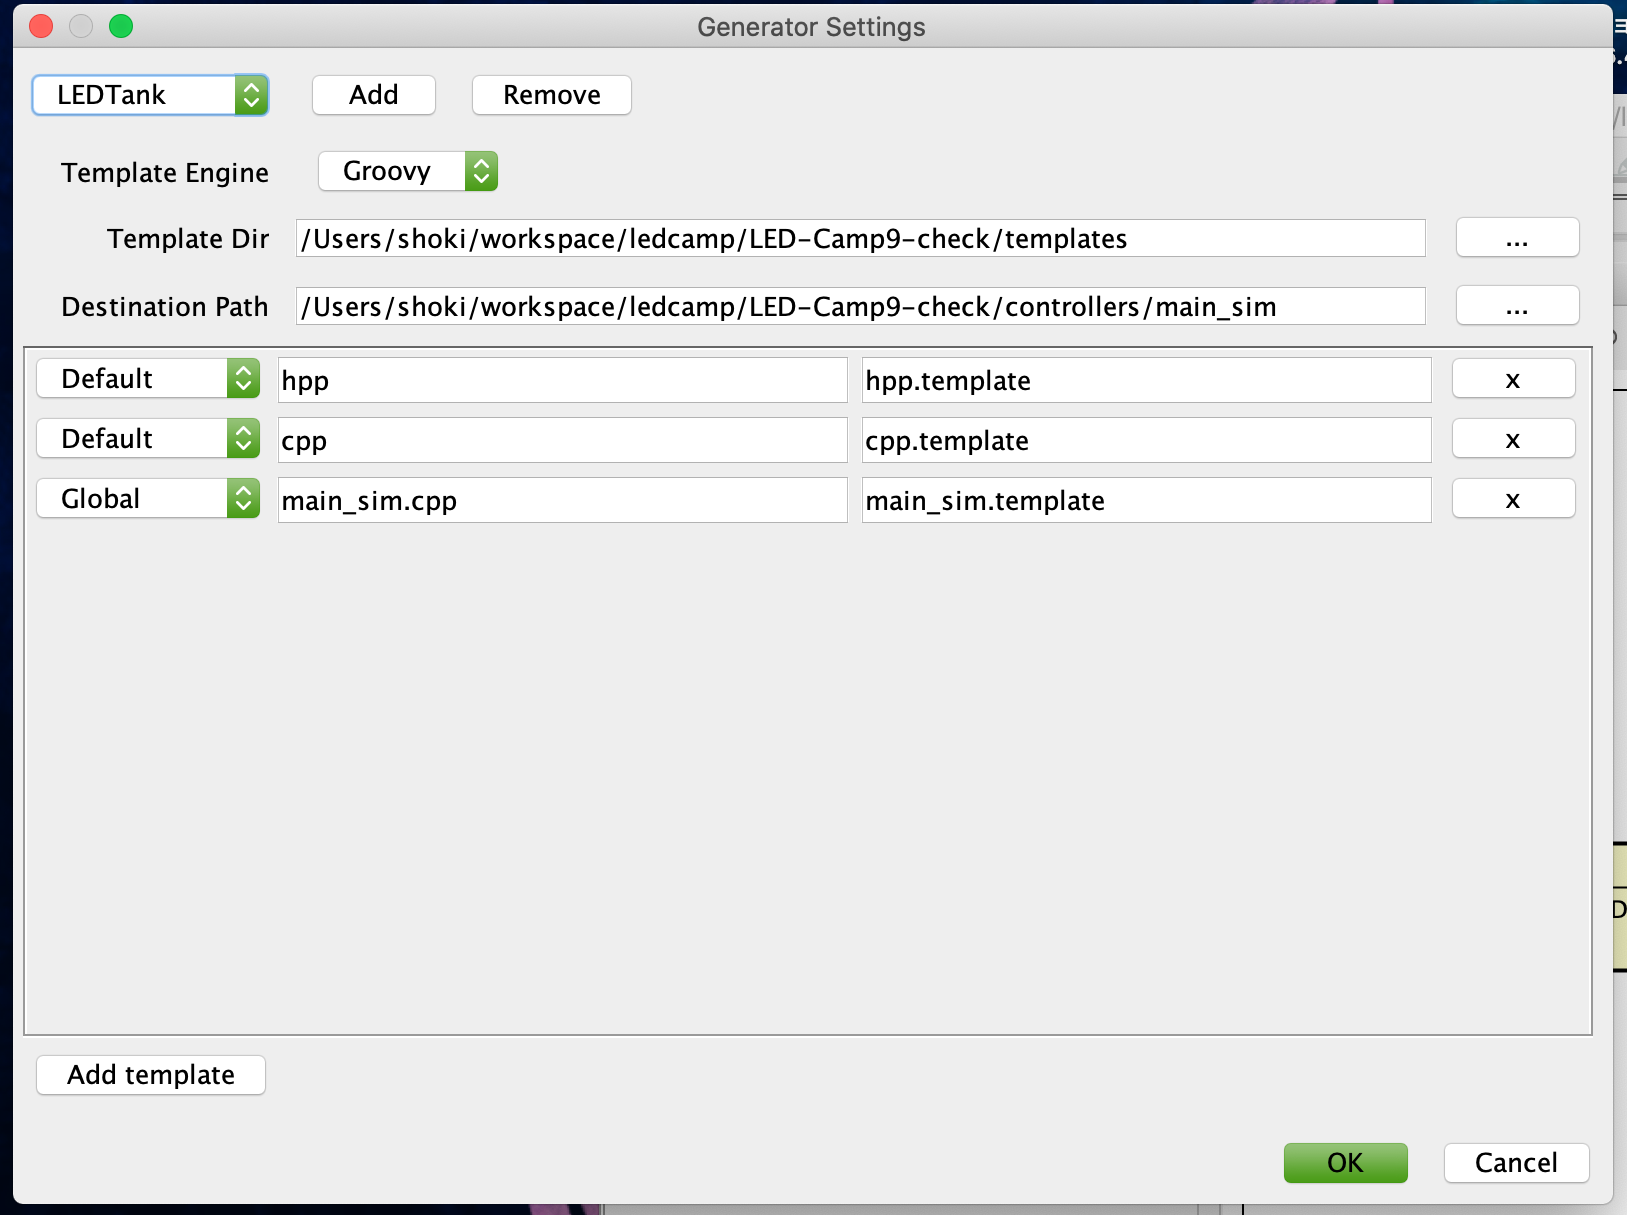
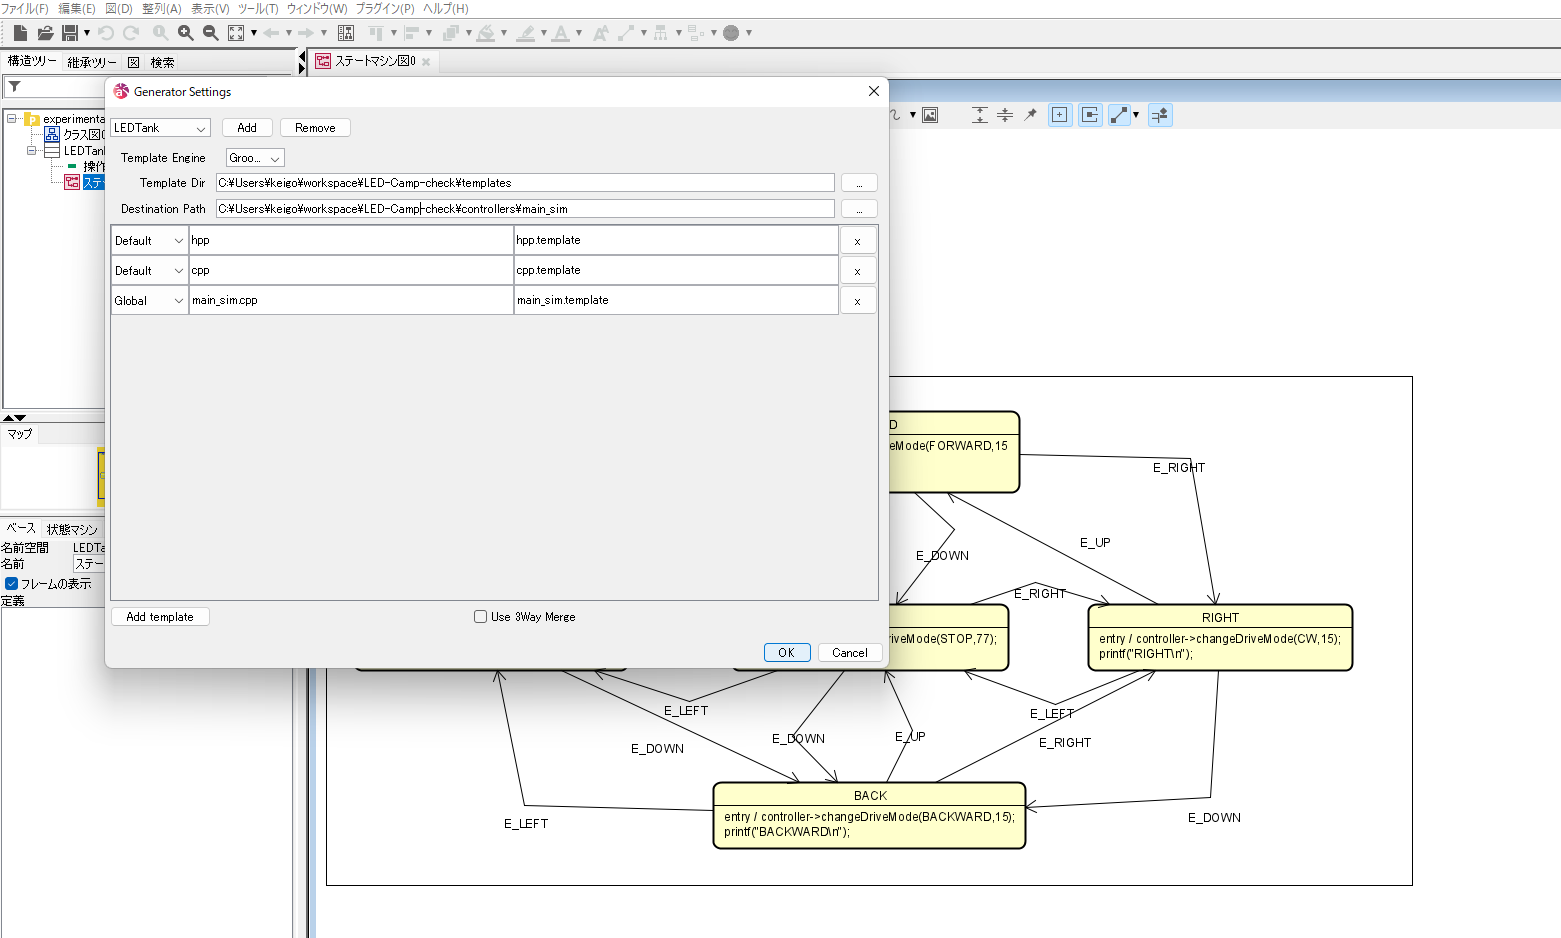
Modified page1 and page6.

diff --git a/camp10/pre_learning/4_preparation/6_check_setup_completed.md b/camp10/pre_learning/4_preparation/6_check_setup_completed.md
@@ -1,9 +1,9 @@
 # 動作確認 <!-- omit in toc -->
-ここでは確認用のファイル一式をダウンロードし、正しくセットアップが行われたかどうかの確認を行います。以下画面は Mac OS のものを載せていますが基本的に Windows でも同じです。
+ここでは確認用のファイル一式をダウンロードし、正しくセットアップが行われたかどうかの確認を行います。（画像はWindows環境です）
 
 - [リポジトリのダウンロード](#リポジトリのダウンロード)
   - [うまくgitが使えない方](#うまくgitが使えない方)
-- [astah\* でサンプルモデルからコードを自動生成する → 画像はCamp10参加者展開用のリポジトリを作成してから差し替えます](#astah-でサンプルモデルからコードを自動生成する--画像はcamp10参加者展開用のリポジトリを作成してから差し替えます)
+- [astah\* でサンプルモデルからコードを自動生成する](#astah-でサンプルモデルからコードを自動生成する)
 - [Webotsでコードを動かす](#webotsでコードを動かす)
 
 ##  リポジトリのダウンロード
@@ -17,17 +17,17 @@ cd ~/workspace
 2. 作業用フォルダに移動したら githubより、動作確認用のファイル一式を取得します。
 
 ```sh
-git clone https://github.com/LED-Camp/LED-Camp9-check.git → Camp10用のURLに変更予定 
+git clone https://github.com/LED-Camp/LED-Camp-check.git 
 ```
 ### うまくgitが使えない方
-<a href="https://github.com/LED-Camp/LED-Camp9-check" target="_blank" rel="noopener noreferrer">こちら</a>より zip ファイルをダウンロードできますので、**Download ZIP** をクリックしてダウンロードしてください。→ リンク先と画像をCamp10用に変更予定
+<a href="https://github.com/LED-Camp/LED-Camp-check.git" target="_blank" rel="noopener noreferrer">こちら</a>より zip ファイルをダウンロードできますので、**Download ZIP** をクリックしてダウンロードしてください。
 <p><img src="./imgs/download_zip.png"/></p>
 
-## astah\* でサンプルモデルからコードを自動生成する → 画像はCamp10参加者展開用のリポジトリを作成してから差し替えます
+## astah\* でサンプルモデルからコードを自動生成する
 1. astah\* を起動します
 2. ファイル->プロジェクトを開く を選択します。
     <p><img src="./imgs/open_project.png"/></p>
-3. `astah/experimental.asta`を選択し、プロジェクトを開きます。
+3. `astah/experimental.asta`を選択し、プロジェクトを開きます。（git clone したリポジトリに含まれています）
     <p><img src="./imgs/choose_astah_file.png"/></p>
 4. 左側の構造ツリーからステートマシン図をダブルクリックし、状態遷移図が表示されることを確認します。
     <p><img src="./imgs/click_state_machine.png"/></p>

diff --git a/camp10/pre_learning/4_preparation/1_introduction.md b/camp10/pre_learning/4_preparation/1_introduction.md
@@ -9,6 +9,5 @@ LED-Camp10 では以下を推奨環境としております。予めご準備の
   - CPU：Intel Core i7 第8世代相当 以上
   - メモリ：16GB以上
 ```
-推奨スペックの詳細についてはLED-Campホームページの参加申込ページにも記載しております。\
-https://swest.toppers.jp/LED-Camp/regist/ （<実習の開発環境について> 参照）
+推奨スペックの詳細については<a href="https://swest.toppers.jp/LED-Camp/regist/" target="_blank" rel="noopener noreferrer">LED-Camp参加申込ページ</a>の<実習の開発環境について> にも記載しております。
 
